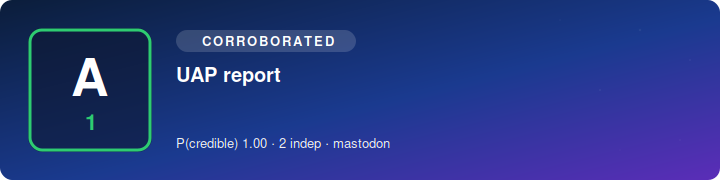
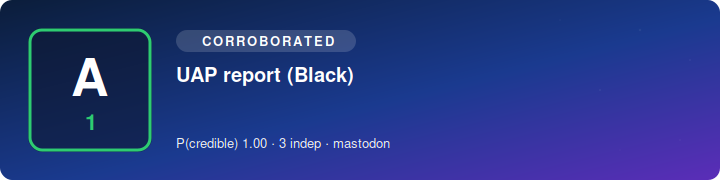
SITREP 2026-07-04 05:50 UTC

Changed region(s): [[0.3972, 0.3611, 0.4889, 0.4722], [0.3667, 0.7778, 0.3972, 0.8333]]

diff --git a/index.html b/index.html
@@ -1,1 +1,1 @@
-<!doctype html><meta charset=utf-8><title>Science Bob News — SITREP</title><style>body{font:16px/1.5 system-ui,sans-serif;max-width:760px;margin:2rem auto;padding:0 1rem;color:#111}h1{font-size:1.5rem}h2{margin-top:1.6rem;border-bottom:1px solid #ddd;padding-bottom:.2rem}ul{list-style:none;padding:0}li{margin:.9rem 0}.hl{font-weight:600}.meta{color:#555;font-size:.85rem}.src{font-size:.85rem}.vid{font-size:.85rem;margin-top:.15rem}.card{display:block;max-width:100%;height:auto;border-radius:8px;margin:.4rem 0 .5rem}.upd{background:#fde68a;padding:0 .3rem;border-radius:.2rem;font-size:.75rem}.sub{color:#777;font-size:.85rem}footer{color:#777;font-size:.8rem;margin-top:2rem;border-top:1px solid #ddd;padding-top:.6rem}</style><h1>🛸 Science Bob News</h1><div class="sub">UAP / UFO / USO SITREP · updated 2026-07-04 05:40 UTC · automated</div><h2>Corroborated</h2><ul><li><img class="card" src="https://n4hy.github.io/sciencebobnews-site/card_c_1.svg" alt="" width="720" height="180"><div class="hl">UAP report (Jerusalem)</div><div class="meta">reliability <b>A1</b> · P(credible)=1.0 · 2 independent source(s) · mastodon</div><div class="src"><a href="https://mastodon.online/@KilleansRow/116859364735046594">@KilleansRow@mastodon.online</a> · <a href="https://niwego.com/display/a081e5c3-166a-478e-2d3f-8c1255718046">@x@niwego.com</a></div></li><li><img class="card" src="https://n4hy.github.io/sciencebobnews-site/card_c_2.svg" alt="" width="720" height="180"><div class="hl">UAP report (Black)</div><div class="meta">reliability <b>A1</b> · P(credible)=1.0 · 3 independent source(s) · mastodon</div><div class="src"><a href="https://masto.nu/@paranormalactivity/116852736423159447">@paranormalactivity@masto.nu</a> · <a href="https://mastodon.social/@esraye/116851326981242419">@esraye</a></div></li><li><img class="card" src="https://n4hy.github.io/sciencebobnews-site/card_c_3.svg" alt="" width="720" height="180"><div class="hl">UAP report</div><div class="meta">reliability <b>A1</b> · P(credible)=1.0 · 2 independent source(s) · mastodon</div><div class="src"><a href="https://pixelfed.social/p/EugeniaLoli/978749472576968947">@EugeniaLoli@pixelfed.social</a> · <a href="https://mastodon.social/@MauroGata/116851640339227472">@MauroGata</a></div></li></ul><h2>Developing / unconfirmed</h2><ul><li><img class="card" src="https://n4hy.github.io/sciencebobnews-site/card_d_1.svg" alt="" width="720" height="180"><div class="hl">UAP report (Mind)</div><div class="meta">reliability <b>A1</b> · P(credible)=1.0 · 1 independent source(s) · rumble</div><div class="src"><a href="https://www.youtube.com/watch?v=Kt7sNS1Bx6E">@podcast</a></div><div class="vid">📹 <a href="https://www.youtube.com/watch?v=Kt7sNS1Bx6E">video</a></div></li><li><img class="card" src="https://n4hy.github.io/sciencebobnews-site/card_d_2.svg" alt="" width="720" height="180"><div class="hl">UAP whistleblower testimony reported (Channel)</div><div class="meta">reliability <b>A1</b> · P(credible)=1.0 · 1 independent source(s) · rumble</div><div class="src"><a href="https://www.youtube.com/watch?v=l1w2tEsrS-g">@podcast</a></div><div class="vid">📹 <a href="https://www.youtube.com/watch?v=MVjBLIsXFHQ&amp;">video</a> · <a href="https://www.youtube.com/watch?v=l1w2tEsrS-g">video</a></div></li><li><img class="card" src="https://n4hy.github.io/sciencebobnews-site/card_d_3.svg" alt="" width="720" height="180"><div class="hl">UAP report (McMinnville)</div><div class="meta">reliability <b>A1</b> · P(credible)=1.0 · 1 independent source(s) · rumble</div><div class="src"><a href="https://www.youtube.com/watch?v=7OT6uJ0yzVY">@podcast</a></div><div class="vid">📹 <a href="https://www.youtube.com/watch?v=7OT6uJ0yzVY">video</a></div></li><li><img class="card" src="https://n4hy.github.io/sciencebobnews-site/card_d_4.svg" alt="" width="720" height="180"><div class="hl">UAP report (New)</div><div class="meta">reliability <b>A1</b> · P(credible)=1.0 · 1 independent source(s) · rumble</div><div class="src"><a href="https://www.youtube.com/watch?v=7_qqSoBfcYg">@podcast</a></div><div class="vid">📹 <a href="https://www.youtube.com/watch?v=7_qqSoBfcYg">video</a></div></li><li><img class="card" src="https://n4hy.github.io/sciencebobnews-site/card_d_5.svg" alt="" width="720" height="180"><div class="hl">UAP report (Titles)</div><div class="meta">reliability <b>A1</b> · P(credible)=1.0 · 1 independent source(s) · rumble</div><div class="src"><a href="https://www.youtube.com/watch?v=xExbXEg6tVY">@podcast</a></div><div class="vid">📹 <a href="https://www.youtube.com/watch?v=xExbXEg6tVY">video</a></div></li></ul><footer><b>Powered by Science Bob News.</b> Free to use with credit (see LICENSE). Headlines are factual restatements in the engine's own words; click sources for originals. Single-origin reposts collapse to one source; prosaic candidates flagged where offered.</footer>
+<!doctype html><meta charset=utf-8><title>Science Bob News — SITREP</title><style>body{font:16px/1.5 system-ui,sans-serif;max-width:760px;margin:2rem auto;padding:0 1rem;color:#111}h1{font-size:1.5rem}h2{margin-top:1.6rem;border-bottom:1px solid #ddd;padding-bottom:.2rem}ul{list-style:none;padding:0}li{margin:.9rem 0}.hl{font-weight:600}.meta{color:#555;font-size:.85rem}.src{font-size:.85rem}.vid{font-size:.85rem;margin-top:.15rem}.card{display:block;max-width:100%;height:auto;border-radius:8px;margin:.4rem 0 .5rem}.upd{background:#fde68a;padding:0 .3rem;border-radius:.2rem;font-size:.75rem}.sub{color:#777;font-size:.85rem}footer{color:#777;font-size:.8rem;margin-top:2rem;border-top:1px solid #ddd;padding-top:.6rem}</style><h1>🛸 Science Bob News</h1><div class="sub">UAP / UFO / USO SITREP · updated 2026-07-04 05:50 UTC · automated</div><h2>Corroborated</h2><ul><li><img class="card" src="https://n4hy.github.io/sciencebobnews-site/card_c_1.svg" alt="" width="720" height="180"><div class="hl">UAP whistleblower testimony reported (American)</div><div class="meta">reliability <b>A1</b> · P(credible)=1.0 · 2 independent source(s) · bluesky+rumble</div><div class="src"><a href="https://www.youtube.com/watch?v=LPtMaGpuK-M">@podcast</a> · <a href="https://bsky.app/profile/did:plc:xhrtfphu4gzqrztkpb3a63qf/post/3mpseikusnu2x">@did:plc:xhrtfphu4gzqrztkpb3a63qf</a></div><div class="vid">📹 <a href="https://www.youtube.com/watch?v=LPtMaGpuK-M">video</a></div></li><li><img class="card" src="https://n4hy.github.io/sciencebobnews-site/card_c_2.svg" alt="" width="720" height="180"><div class="hl">UAP report (Jerusalem)</div><div class="meta">reliability <b>A1</b> · P(credible)=1.0 · 2 independent source(s) · mastodon</div><div class="src"><a href="https://mastodon.online/@KilleansRow/116859364735046594">@KilleansRow@mastodon.online</a> · <a href="https://niwego.com/display/a081e5c3-166a-478e-2d3f-8c1255718046">@x@niwego.com</a></div></li><li><img class="card" src="https://n4hy.github.io/sciencebobnews-site/card_c_3.svg" alt="" width="720" height="180"><div class="hl">UAP report (Black)</div><div class="meta">reliability <b>A1</b> · P(credible)=1.0 · 3 independent source(s) · mastodon</div><div class="src"><a href="https://masto.nu/@paranormalactivity/116852736423159447">@paranormalactivity@masto.nu</a> · <a href="https://mastodon.social/@esraye/116851326981242419">@esraye</a></div></li><li><img class="card" src="https://n4hy.github.io/sciencebobnews-site/card_c_4.svg" alt="" width="720" height="180"><div class="hl">UAP report</div><div class="meta">reliability <b>A1</b> · P(credible)=1.0 · 2 independent source(s) · mastodon</div><div class="src"><a href="https://pixelfed.social/p/EugeniaLoli/978749472576968947">@EugeniaLoli@pixelfed.social</a> · <a href="https://mastodon.social/@MauroGata/116851640339227472">@MauroGata</a></div></li></ul><h2>Developing / unconfirmed</h2><ul><li><img class="card" src="https://n4hy.github.io/sciencebobnews-site/card_d_1.svg" alt="" width="720" height="180"><div class="hl">UAP report (Mind)</div><div class="meta">reliability <b>A1</b> · P(credible)=1.0 · 1 independent source(s) · rumble</div><div class="src"><a href="https://www.youtube.com/watch?v=Kt7sNS1Bx6E">@podcast</a></div><div class="vid">📹 <a href="https://www.youtube.com/watch?v=Kt7sNS1Bx6E">video</a></div></li><li><img class="card" src="https://n4hy.github.io/sciencebobnews-site/card_d_2.svg" alt="" width="720" height="180"><div class="hl">UAP whistleblower testimony reported (Channel)</div><div class="meta">reliability <b>A1</b> · P(credible)=1.0 · 1 independent source(s) · rumble</div><div class="src"><a href="https://www.youtube.com/watch?v=l1w2tEsrS-g">@podcast</a></div><div class="vid">📹 <a href="https://www.youtube.com/watch?v=MVjBLIsXFHQ&amp;">video</a> · <a href="https://www.youtube.com/watch?v=l1w2tEsrS-g">video</a></div></li><li><img class="card" src="https://n4hy.github.io/sciencebobnews-site/card_d_3.svg" alt="" width="720" height="180"><div class="hl">UAP report (McMinnville)</div><div class="meta">reliability <b>A1</b> · P(credible)=1.0 · 1 independent source(s) · rumble</div><div class="src"><a href="https://www.youtube.com/watch?v=7OT6uJ0yzVY">@podcast</a></div><div class="vid">📹 <a href="https://www.youtube.com/watch?v=7OT6uJ0yzVY">video</a></div></li><li><img class="card" src="https://n4hy.github.io/sciencebobnews-site/card_d_4.svg" alt="" width="720" height="180"><div class="hl">UAP report (New)</div><div class="meta">reliability <b>A1</b> · P(credible)=1.0 · 1 independent source(s) · rumble</div><div class="src"><a href="https://www.youtube.com/watch?v=7_qqSoBfcYg">@podcast</a></div><div class="vid">📹 <a href="https://www.youtube.com/watch?v=7_qqSoBfcYg">video</a></div></li><li><img class="card" src="https://n4hy.github.io/sciencebobnews-site/card_d_5.svg" alt="" width="720" height="180"><div class="hl">UAP report (Titles)</div><div class="meta">reliability <b>A1</b> · P(credible)=1.0 · 1 independent source(s) · rumble</div><div class="src"><a href="https://www.youtube.com/watch?v=xExbXEg6tVY">@podcast</a></div><div class="vid">📹 <a href="https://www.youtube.com/watch?v=xExbXEg6tVY">video</a></div></li></ul><footer><b>Powered by Science Bob News.</b> Free to use with credit (see LICENSE). Headlines are factual restatements in the engine's own words; click sources for originals. Single-origin reposts collapse to one source; prosaic candidates flagged where offered.</footer>

diff --git a/sitrep.md b/sitrep.md
@@ -1,20 +1,26 @@
 # 🛸 Science Bob News — UAP / UFO / USO SITREP
-*Updated 2026-07-04 05:40 UTC · auto-generated · sources credited & linked · reliability ratings are automated, not editorial*
+*Updated 2026-07-04 05:50 UTC · auto-generated · sources credited & linked · reliability ratings are automated, not editorial*
 
 ## Corroborated
 
-![UAP report (Jerusalem)](https://n4hy.github.io/sciencebobnews-site/card_c_1.svg)
-1. **UAP report (Jerusalem)**  
+![UAP whistleblower testimony reported (American)](https://n4hy.github.io/sciencebobnews-site/card_c_1.svg)
+1. **UAP whistleblower testimony reported (American)**  
+   reliability **A1** · P(credible)=1.0 · 2 independent source(s) · bluesky+rumble  
+   [@podcast](https://www.youtube.com/watch?v=LPtMaGpuK-M) · [@did:plc:xhrtfphu4gzqrztkpb3a63qf](https://bsky.app/profile/did:plc:xhrtfphu4gzqrztkpb3a63qf/post/3mpseikusnu2x)  
+   📹 [video](https://www.youtube.com/watch?v=LPtMaGpuK-M)
+
+![UAP report (Jerusalem)](https://n4hy.github.io/sciencebobnews-site/card_c_2.svg)
+2. **UAP report (Jerusalem)**  
    reliability **A1** · P(credible)=1.0 · 2 independent source(s) · mastodon  
    [@KilleansRow@mastodon.online](https://mastodon.online/@KilleansRow/116859364735046594) · [@x@niwego.com](https://niwego.com/display/a081e5c3-166a-478e-2d3f-8c1255718046)
 
-![UAP report (Black)](https://n4hy.github.io/sciencebobnews-site/card_c_2.svg)
-2. **UAP report (Black)**  
+![UAP report (Black)](https://n4hy.github.io/sciencebobnews-site/card_c_3.svg)
+3. **UAP report (Black)**  
    reliability **A1** · P(credible)=1.0 · 3 independent source(s) · mastodon  
    [@paranormalactivity@masto.nu](https://masto.nu/@paranormalactivity/116852736423159447) · [@esraye](https://mastodon.social/@esraye/116851326981242419)
 
-![UAP report](https://n4hy.github.io/sciencebobnews-site/card_c_3.svg)
-3. **UAP report**  
+![UAP report](https://n4hy.github.io/sciencebobnews-site/card_c_4.svg)
+4. **UAP report**  
    reliability **A1** · P(credible)=1.0 · 2 independent source(s) · mastodon  
    [@EugeniaLoli@pixelfed.social](https://pixelfed.social/p/EugeniaLoli/978749472576968947) · [@MauroGata](https://mastodon.social/@MauroGata/116851640339227472)
 
